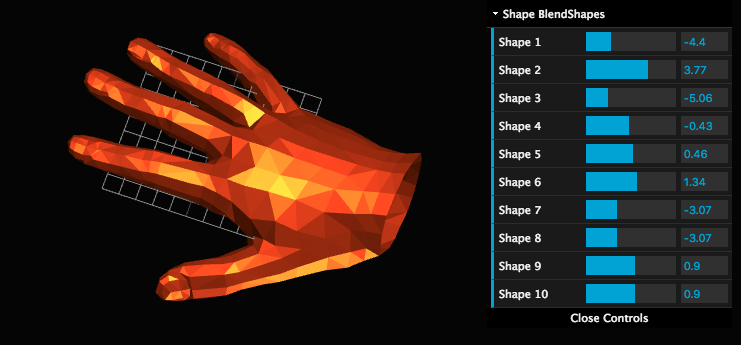
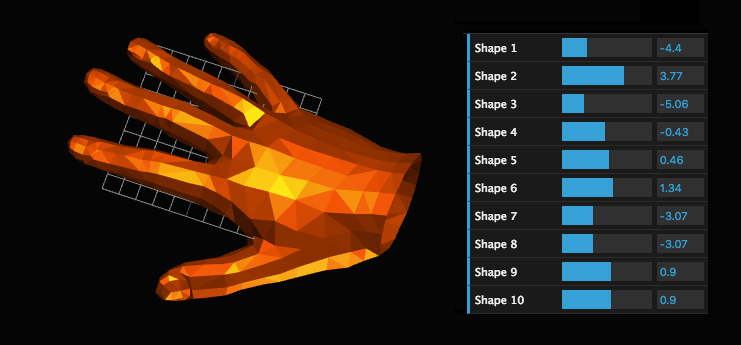
Font style

diff --git a/mano/index.html b/mano/index.html
@@ -20,21 +20,21 @@
 
     <meta property="og:url" content="https://dawars.me/mano"/>
     <meta property="og:title" content="Deformable Hand Model - Interactive Demo"/>
-    <meta property="og:description" content="Change the shape of the hand with 10 tunable parameters."/>
+    <meta property="og:description" content="Change the hand's shape with 10 simple parameters."/>
     <meta property="og:image" content="https://dawars.me/mano/images/banner.png"/>
 
     <meta name="description" content="Deformable Hand Model | Hand model based on the Mano model with 10 tunable parameters to explore the shape space.">
     <meta itemprop="name" content="Deformable Hand Model - Interactive Demo">
-    <meta itemprop="description" content="Change the shape of the hand with 10 tunable parameters.">
+    <meta itemprop="description" content="Change the hand's shape with 10 simple parameters.">
     <meta itemprop="image" content="https://dawars.me/mano/images/banner.png">
 
     <style>
         *{ box-sizing: border-box; margin: 0; padding: 0 }
         body {
             color: #eee;
-            font-family: tahoma;
+            font-family: 'Source Sans Pro',sans-serif;
             font-size:13px;
-            margin: 0px;
+            margin: 0;
             overflow: hidden;
             line-height: 1.4em;
             text-shadow: 0 -1px 0 rgba( 0, 0, 0, .5 );
